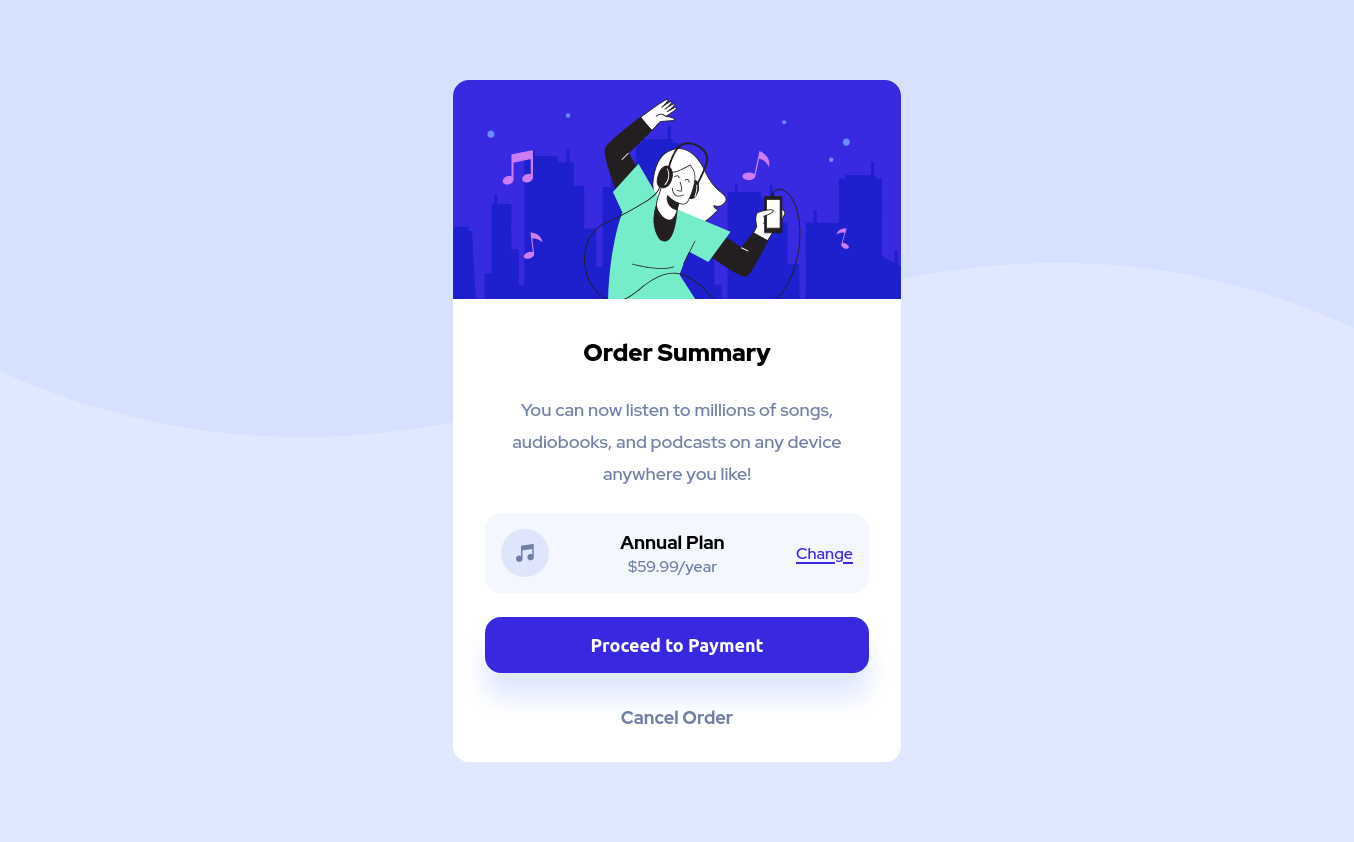
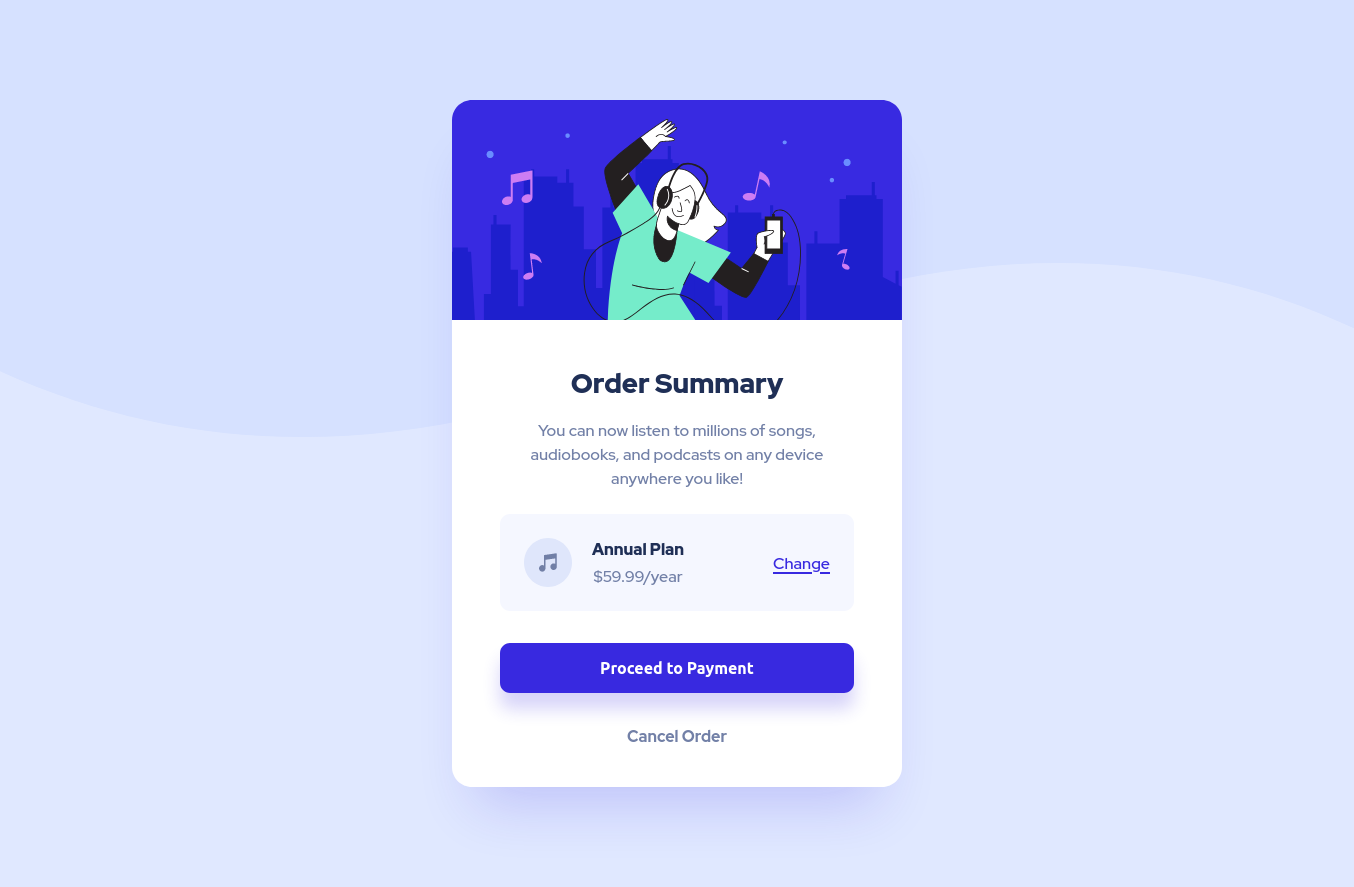
change image

diff --git a/index.css b/index.css
@@ -4,7 +4,7 @@
   padding: 0;
 }
 body {
-  padding: 5rem 1.5rem;
+  padding: 6.25rem 1.5rem;
   display: flex;
   justify-content: center;
   align-items: center;
@@ -14,22 +14,23 @@ body {
   background-image: url("./images/pattern-background-mobile.svg");
   font-family: "Red Hat Display", sans-serif;
 }
-@media (min-width: 375px) {
+@media (min-width: 500px) {
   body {
     background-image: url("./images/pattern-background-desktop.svg");
   }
 }
 
 .card {
-  max-width: 28rem;
+  box-shadow: 0 2.5rem 3.5rem -1.5rem rgb(55 42 224 / 20%);
+  max-width: 450px;
   width: 100%;
   background-color: #fff;
-  border-radius: 1rem;
+  border-radius: 1.25rem;
 }
 
 /* <!--Card__image--> */
 .card__image {
-  border-radius: 1rem 1rem 0 0;
+  border-radius: 1.25rem 1.25rem 0 0;
   width: 100%;
 }
 
@@ -38,34 +39,55 @@ body {
   padding: 2rem;
   text-align: center;
 }
-
+@media (min-width: 500px) {
+  .card-container-content {
+    padding: 2.5rem 3rem;
+  }
+}
 /* <!--Card__descript--> */
 .card__title {
-  margin-bottom: 1.5rem;
+  font-size: 1.7rem;
+  margin-bottom: 1rem;
   font-weight: 900;
+  color: hsl(223, 47%, 23%);
 }
 .card__paragraph {
-  font-size: 18px;
   line-height: 2rem;
   color: hsl(224, 23%, 55%);
   margin-bottom: 1.5rem;
 }
-
+@media (min-width: 500px) {
+  .card__paragraph {
+    line-height: 1.5rem;
+  }
+}
 /* <!--Card__plan--> */
 .card-container-plan {
   background-color: hsl(225, 100%, 98%);
-  padding: 1rem;
-  border-radius: 1rem;
+  padding: 1.5rem;
+  border-radius: 10px;
   display: flex;
   justify-content: space-between;
   align-items: center;
-  margin-bottom: 1.5rem;
+  margin-bottom: 2rem;
 }
-.card-container-plan > a {
+.card__cont-price {
+  display: flex;
+}
+
+.card__change > a {
   color: hsl(245, 75%, 52%);
 }
-.card-container-plan > a:hover {
+.card__change > a:hover {
   color: hsl(224, 23%, 55%);
+}
+.card__label {
+  padding-left: 20px;
+}
+.card__label > p {
+  margin-bottom: 5px;
+  font-weight: 900;
+  color: hsl(223, 47%, 23%);
 }
 .card__label > span {
   color: hsl(224, 23%, 55%);
@@ -79,22 +101,22 @@ body {
 
 .card__btn-payment {
   cursor: pointer;
-  height: 3.5rem;
+  height: 50px;
   border: none;
   color: #fff;
   font-weight: 700;
-  font-size: 18px;
+  font-size: 1rem;
   background-color: hsl(245, 75%, 52%);
-  border-radius: 1rem;
+  border-radius: 10px;
   margin-bottom: 2rem;
-  box-shadow: 0px 25px 25px hsl(225, 100%, 94%);
+  box-shadow: 0px 1rem 1rem rgb(55 42 224 / 20%);
 }
 .card__btn-payment:hover {
   background-color: hsl(224, 23%, 55%);
 }
 
 .card__cancel-payment {
-  font-size: 18px;
+  font-size: 1rem;
   text-decoration: none;
   color: hsl(224, 23%, 55%);
   font-weight: 700;

diff --git a/index.html b/index.html
@@ -30,7 +30,7 @@
       <div class="card-container-content">
         <!--Card__descript-->
         <div>
-          <h2 class="card__title">Order Summary</h2>
+          <h1 class="card__title">Order Summary</h1>
           <p class="card__paragraph">
             You can now listen to millions of songs, audiobooks, and podcasts on
             any device anywhere you like!
@@ -38,12 +38,16 @@
         </div>
         <!--Card__plan-->
         <div class="card-container-plan">
-          <img src="./images/icon-music.svg" alt="icon-music" />
-          <label class="card__label">
-            <h3>Annual Plan</h3>
-            <span>$59.99/year</span>
-          </label>
-          <a href="">Change</a>
+          <div class="card__cont-price">
+            <img src="./images/icon-music.svg" alt="icon-music" />
+            <label class="card__label">
+              <p>Annual Plan</p>
+              <span>$59.99/year</span>
+            </label>
+          </div>
+          <div class="card__change">
+            <a href="">Change</a>
+          </div>
         </div>
         <!--Card__payment-->
         <div class="card-container-payment">
